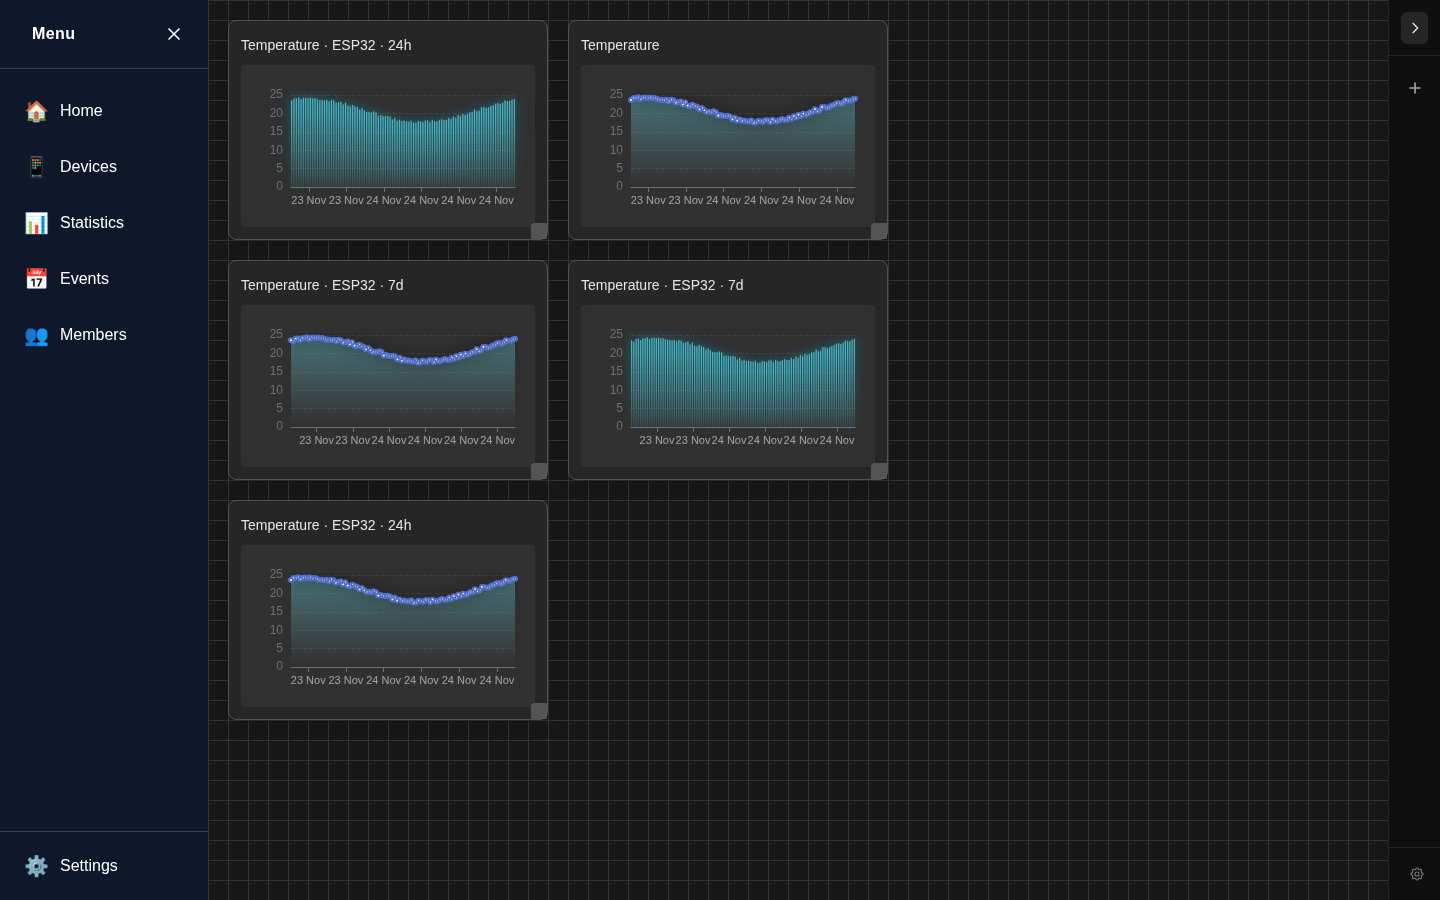
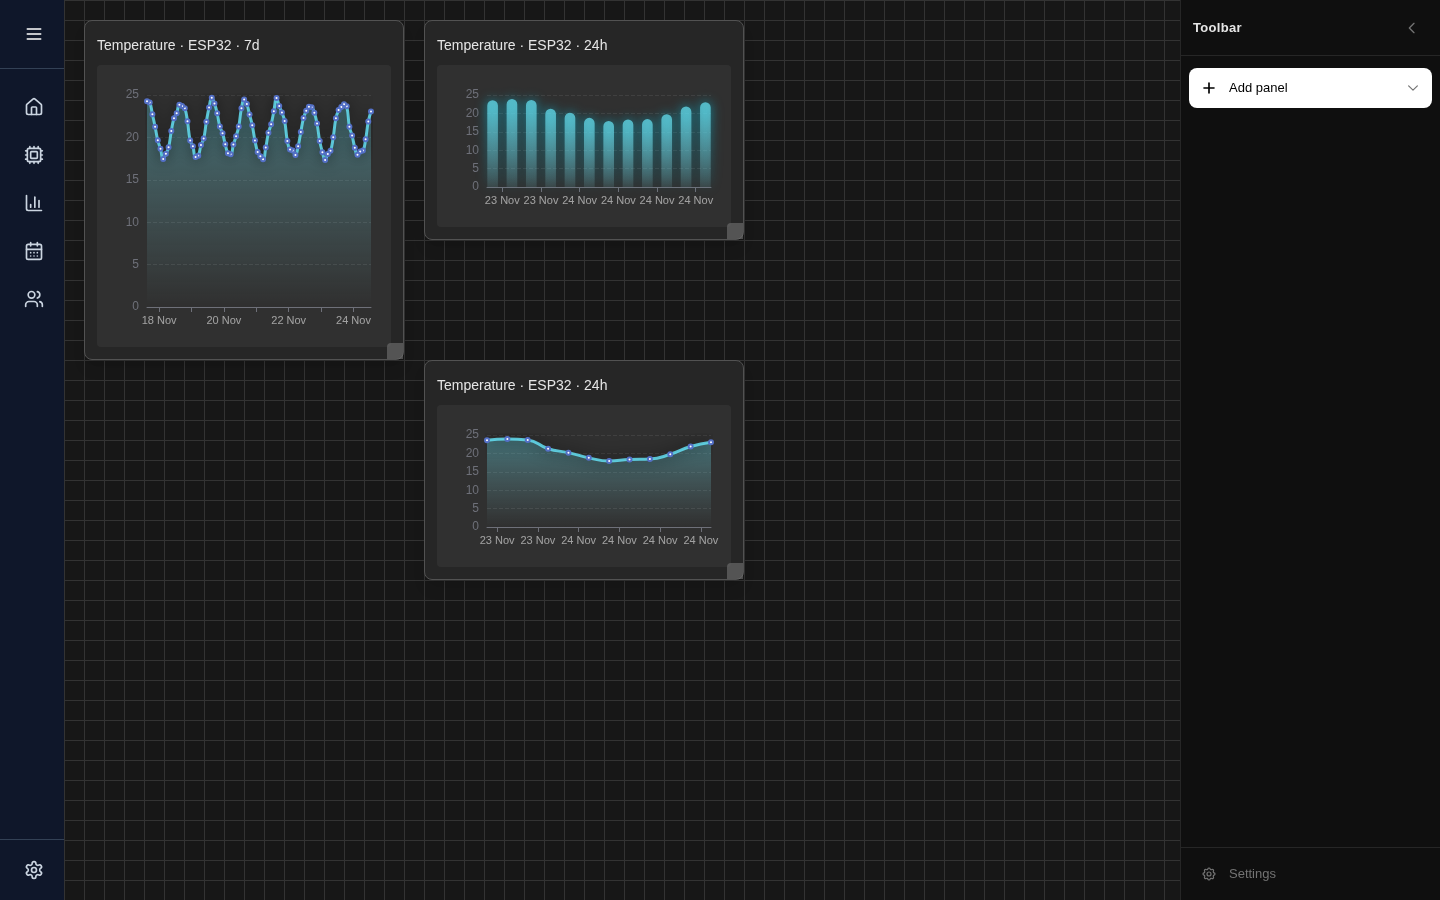
Update dashboard GIF and screenshots

diff --git a/README.md b/README.md
@@ -6,7 +6,7 @@ service, and a Leptos web app where users register devices and build dashboards 
 > **Status:** work in progress. Accounts, device management, telemetry ingestion and charts work.
 > Saving dashboard layouts is next (see [Roadmap](#roadmap)).
 
-![Dashboard: panels snap to the grid and are placed automatically](docs/dashboard.gif)
+![Dashboard: new panels are placed automatically, a panel dropped on another slides to the nearest free spot, and resizing snaps to the grid](docs/dashboard.gif)
 
 | Landing page | Devices |
 |---|---|
